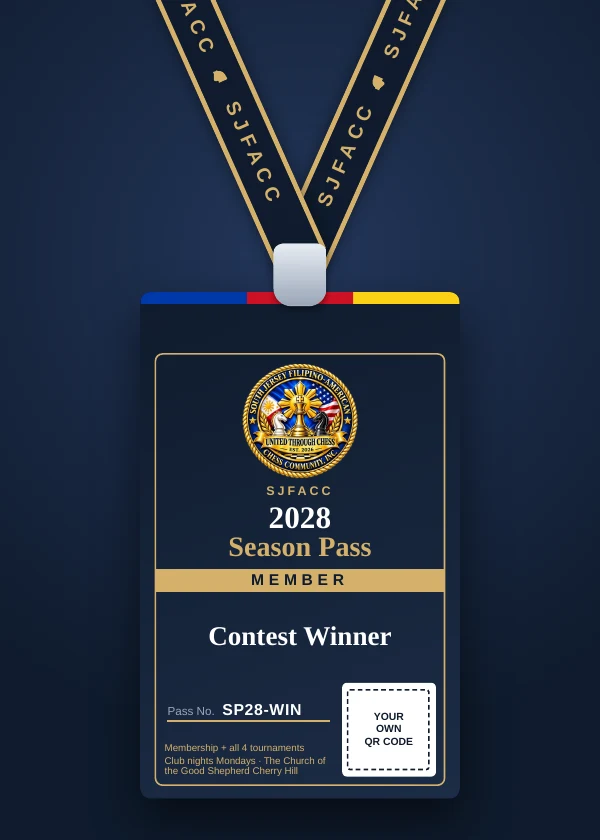
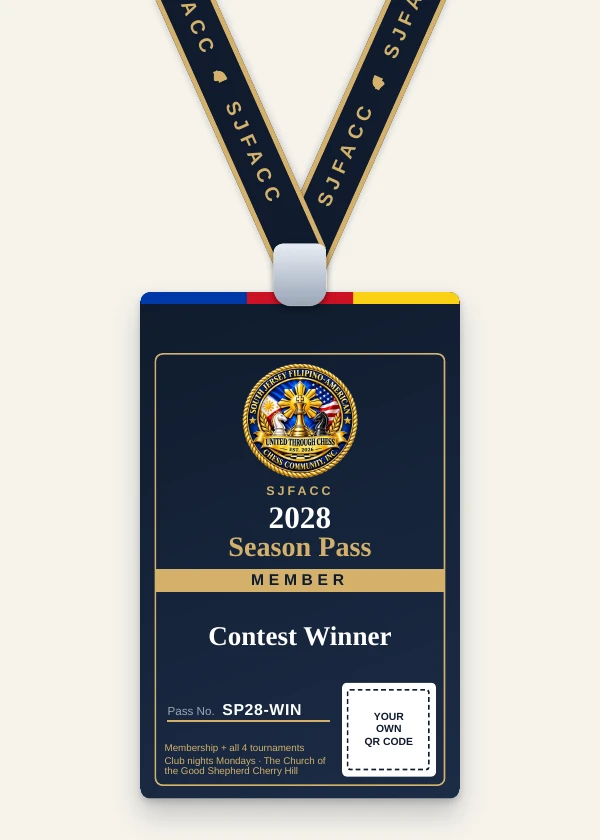
Review copy of SJFACC website @ 43ad1ad for chess.fassj.o2bot.com

diff --git a/index.html b/index.html
@@ -17,7 +17,7 @@
   <meta property="og:image:width" content="1200">
   <meta property="og:image:height" content="630">
   <meta name="twitter:card" content="summary_large_image">
-  <link rel="stylesheet" href="/styles.css?v=2adb89ddaf">
+  <link rel="stylesheet" href="/styles.css?v=86a751a54f">
 </head>
 <body>
   <div style="background:#b8913a;color:#0f1b2d;font:600 13px/1.4 system-ui,-apple-system,Segoe UI,Roboto,Arial,sans-serif;text-align:center;padding:7px 16px">Welcome to the Official SJFACC interim website &mdash; fully operational &middot; <a href="/register.html" style="color:#0f1b2d;text-decoration:underline">Registration is now open! &rarr;</a></div>
@@ -126,7 +126,7 @@
             <button class="btn btn-outline" type="button" data-lightbox="/assets/club-shirt-2027.webp?v=2" data-caption="The 2027 season club T-shirt, designed by Andrew Suganob">See the 2027 shirt</button>
           </div>
         </div>
-        <figure class="contest-pass"><button class="promo-pic promo-pic--pass" type="button" data-lightbox="/assets/season-pass-2028.webp?v=1" data-caption="The prize: a 2028 Season Pass (free one-year membership) and the 2028 season T-shirt" aria-label="Show the 2028 Season Pass larger"><img src="/assets/season-pass-2028.webp?v=1" width="600" height="840" alt="The 2028 SJFACC Season Pass for the contest winner: a navy and gold ID badge on an SJFACC lanyard" loading="lazy"></button><figcaption><b>Win the 2028 Season Pass</b>free one-year membership + a free 2028 season T&#8209;shirt</figcaption></figure>
+        <figure class="contest-pass"><button class="promo-pic promo-pic--pass" type="button" data-lightbox="/assets/season-pass-2028.webp?v=2" data-caption="The prize: a 2028 Season Pass (free one-year membership) and the 2028 season T-shirt" aria-label="Show the 2028 Season Pass larger"><img src="/assets/season-pass-2028.webp?v=2" width="600" height="840" alt="The 2028 SJFACC Season Pass for the contest winner: a navy and gold ID badge on an SJFACC lanyard" loading="lazy"></button><figcaption><b>Win the 2028 Season Pass</b>free one-year membership + a free 2028 season T&#8209;shirt</figcaption></figure>
       </div>
     </section>
 
@@ -214,7 +214,7 @@
       </div>
       <div class="footer-bottom">
         <span>&copy; <span data-year>2026</span> South Jersey Filipino-American Chess Community, Inc.</span>
-        <span><a href="/privacy.html">Privacy &amp; Disclaimer</a> · <a href="/site-info.html">Website info</a> · <span class="build" data-build>Build 231 · Nov 24, 2026</span></span>
+        <span><a href="/privacy.html">Privacy &amp; Disclaimer</a> · <a href="/site-info.html">Website info</a> · <span class="build" data-build>Build 232 · Nov 24, 2026</span></span>
       </div>
     </div>
   </footer>

diff --git a/site-info.html b/site-info.html
@@ -17,7 +17,7 @@
   <meta property="og:image:width" content="1200">
   <meta property="og:image:height" content="630">
   <meta name="twitter:card" content="summary_large_image">
-  <link rel="stylesheet" href="/styles.css?v=2adb89ddaf">
+  <link rel="stylesheet" href="/styles.css?v=86a751a54f">
 </head>
 <body>
   <div style="background:#b8913a;color:#0f1b2d;font:600 13px/1.4 system-ui,-apple-system,Segoe UI,Roboto,Arial,sans-serif;text-align:center;padding:7px 16px">Welcome to the Official SJFACC interim website &mdash; fully operational &middot; <a href="/register.html" style="color:#0f1b2d;text-decoration:underline">Registration is now open! &rarr;</a></div>
@@ -55,7 +55,7 @@
       <div class="container">
         <p class="eyebrow">Website info</p>
         <h1>How this website works</h1>
-        <p class="lead">What this site is built with, how it keeps you safe, and what it does with your information. This is <b data-build-info>Build 231</b>, published <span data-build-date>November 24, 2026</span>.</p>
+        <p class="lead">What this site is built with, how it keeps you safe, and what it does with your information. This is <b data-build-info>Build 232</b>, published <span data-build-date>November 24, 2026</span>.</p>
       </div>
     </section>
     <section class="section">
@@ -135,7 +135,7 @@
       </div>
       <div class="footer-bottom">
         <span>&copy; <span data-year>2026</span> South Jersey Filipino-American Chess Community, Inc.</span>
-        <span><a href="/privacy.html">Privacy &amp; Disclaimer</a> · <a href="/site-info.html">Website info</a> · <span class="build" data-build>Build 231 · Nov 24, 2026</span></span>
+        <span><a href="/privacy.html">Privacy &amp; Disclaimer</a> · <a href="/site-info.html">Website info</a> · <span class="build" data-build>Build 232 · Nov 24, 2026</span></span>
       </div>
     </div>
   </footer>

diff --git a/about.html b/about.html
@@ -17,7 +17,7 @@
   <meta property="og:image:width" content="1200">
   <meta property="og:image:height" content="630">
   <meta name="twitter:card" content="summary_large_image">
-  <link rel="stylesheet" href="/styles.css?v=2adb89ddaf">
+  <link rel="stylesheet" href="/styles.css?v=86a751a54f">
 </head>
 <body>
   <div style="background:#b8913a;color:#0f1b2d;font:600 13px/1.4 system-ui,-apple-system,Segoe UI,Roboto,Arial,sans-serif;text-align:center;padding:7px 16px">Welcome to the Official SJFACC interim website &mdash; fully operational &middot; <a href="/register.html" style="color:#0f1b2d;text-decoration:underline">Registration is now open! &rarr;</a></div>
@@ -199,7 +199,7 @@
       </div>
       <div class="footer-bottom">
         <span>&copy; <span data-year>2026</span> South Jersey Filipino-American Chess Community, Inc.</span>
-        <span><a href="/privacy.html">Privacy &amp; Disclaimer</a> · <a href="/site-info.html">Website info</a> · <span class="build" data-build>Build 231 · Nov 24, 2026</span></span>
+        <span><a href="/privacy.html">Privacy &amp; Disclaimer</a> · <a href="/site-info.html">Website info</a> · <span class="build" data-build>Build 232 · Nov 24, 2026</span></span>
       </div>
     </div>
   </footer>

diff --git a/contact.html b/contact.html
@@ -17,7 +17,7 @@
   <meta property="og:image:width" content="1200">
   <meta property="og:image:height" content="630">
   <meta name="twitter:card" content="summary_large_image">
-  <link rel="stylesheet" href="/styles.css?v=2adb89ddaf">
+  <link rel="stylesheet" href="/styles.css?v=86a751a54f">
 </head>
 <body>
   <div style="background:#b8913a;color:#0f1b2d;font:600 13px/1.4 system-ui,-apple-system,Segoe UI,Roboto,Arial,sans-serif;text-align:center;padding:7px 16px">Welcome to the Official SJFACC interim website &mdash; fully operational &middot; <a href="/register.html" style="color:#0f1b2d;text-decoration:underline">Registration is now open! &rarr;</a></div>
@@ -111,7 +111,7 @@
       </div>
       <div class="footer-bottom">
         <span>&copy; <span data-year>2026</span> South Jersey Filipino-American Chess Community, Inc.</span>
-        <span><a href="/privacy.html">Privacy &amp; Disclaimer</a> · <a href="/site-info.html">Website info</a> · <span class="build" data-build>Build 231 · Nov 24, 2026</span></span>
+        <span><a href="/privacy.html">Privacy &amp; Disclaimer</a> · <a href="/site-info.html">Website info</a> · <span class="build" data-build>Build 232 · Nov 24, 2026</span></span>
       </div>
     </div>
   </footer>

diff --git a/contest.html b/contest.html
@@ -17,7 +17,7 @@
   <meta property="og:image:width" content="1200">
   <meta property="og:image:height" content="630">
   <meta name="twitter:card" content="summary_large_image">
-  <link rel="stylesheet" href="/styles.css?v=2adb89ddaf">
+  <link rel="stylesheet" href="/styles.css?v=86a751a54f">
 </head>
 <body>
   <div style="background:#b8913a;color:#0f1b2d;font:600 13px/1.4 system-ui,-apple-system,Segoe UI,Roboto,Arial,sans-serif;text-align:center;padding:7px 16px">Welcome to the Official SJFACC interim website &mdash; fully operational &middot; <a href="/register.html" style="color:#0f1b2d;text-decoration:underline">Registration is now open! &rarr;</a></div>
@@ -157,7 +157,7 @@
       </div>
       <div class="footer-bottom">
         <span>&copy; <span data-year>2026</span> South Jersey Filipino-American Chess Community, Inc.</span>
-        <span><a href="/privacy.html">Privacy &amp; Disclaimer</a> · <a href="/site-info.html">Website info</a> · <span class="build" data-build>Build 231 · Nov 24, 2026</span></span>
+        <span><a href="/privacy.html">Privacy &amp; Disclaimer</a> · <a href="/site-info.html">Website info</a> · <span class="build" data-build>Build 232 · Nov 24, 2026</span></span>
       </div>
     </div>
   </footer>

diff --git a/edit.html b/edit.html
@@ -18,7 +18,7 @@
   <meta property="og:image:width" content="1200">
   <meta property="og:image:height" content="630">
   <meta name="twitter:card" content="summary_large_image">
-  <link rel="stylesheet" href="/styles.css?v=2adb89ddaf">
+  <link rel="stylesheet" href="/styles.css?v=86a751a54f">
 </head>
 <body>
   <div style="background:#b8913a;color:#0f1b2d;font:600 13px/1.4 system-ui,-apple-system,Segoe UI,Roboto,Arial,sans-serif;text-align:center;padding:7px 16px">Welcome to the Official SJFACC interim website &mdash; fully operational &middot; <a href="/register.html" style="color:#0f1b2d;text-decoration:underline">Registration is now open! &rarr;</a></div>
@@ -101,7 +101,7 @@
       </div>
       <div class="footer-bottom">
         <span>&copy; <span data-year>2026</span> South Jersey Filipino-American Chess Community, Inc.</span>
-        <span><a href="/privacy.html">Privacy &amp; Disclaimer</a> · <a href="/site-info.html">Website info</a> · <span class="build" data-build>Build 231 · Nov 24, 2026</span></span>
+        <span><a href="/privacy.html">Privacy &amp; Disclaimer</a> · <a href="/site-info.html">Website info</a> · <span class="build" data-build>Build 232 · Nov 24, 2026</span></span>
       </div>
     </div>
   </footer>

diff --git a/officer-setup.html b/officer-setup.html
@@ -18,7 +18,7 @@
   <meta property="og:image:width" content="1200">
   <meta property="og:image:height" content="630">
   <meta name="twitter:card" content="summary_large_image">
-  <link rel="stylesheet" href="/styles.css?v=2adb89ddaf">
+  <link rel="stylesheet" href="/styles.css?v=86a751a54f">
 </head>
 <body>
   <div style="background:#b8913a;color:#0f1b2d;font:600 13px/1.4 system-ui,-apple-system,Segoe UI,Roboto,Arial,sans-serif;text-align:center;padding:7px 16px">Welcome to the Official SJFACC interim website &mdash; fully operational &middot; <a href="/register.html" style="color:#0f1b2d;text-decoration:underline">Registration is now open! &rarr;</a></div>
@@ -109,7 +109,7 @@
       </div>
       <div class="footer-bottom">
         <span>&copy; <span data-year>2026</span> South Jersey Filipino-American Chess Community, Inc.</span>
-        <span><a href="/privacy.html">Privacy &amp; Disclaimer</a> · <a href="/site-info.html">Website info</a> · <span class="build" data-build>Build 231 · Nov 24, 2026</span></span>
+        <span><a href="/privacy.html">Privacy &amp; Disclaimer</a> · <a href="/site-info.html">Website info</a> · <span class="build" data-build>Build 232 · Nov 24, 2026</span></span>
       </div>
     </div>
   </footer>

diff --git a/officers.html b/officers.html
@@ -18,7 +18,7 @@
   <meta property="og:image:width" content="1200">
   <meta property="og:image:height" content="630">
   <meta name="twitter:card" content="summary_large_image">
-  <link rel="stylesheet" href="/styles.css?v=2adb89ddaf">
+  <link rel="stylesheet" href="/styles.css?v=86a751a54f">
 </head>
 <body>
   <div style="background:#b8913a;color:#0f1b2d;font:600 13px/1.4 system-ui,-apple-system,Segoe UI,Roboto,Arial,sans-serif;text-align:center;padding:7px 16px">Welcome to the Official SJFACC interim website &mdash; fully operational &middot; <a href="/register.html" style="color:#0f1b2d;text-decoration:underline">Registration is now open! &rarr;</a></div>
@@ -211,7 +211,7 @@
       </div>
       <div class="footer-bottom">
         <span>&copy; <span data-year>2026</span> South Jersey Filipino-American Chess Community, Inc.</span>
-        <span><a href="/privacy.html">Privacy &amp; Disclaimer</a> · <a href="/site-info.html">Website info</a> · <span class="build" data-build>Build 231 · Nov 24, 2026</span></span>
+        <span><a href="/privacy.html">Privacy &amp; Disclaimer</a> · <a href="/site-info.html">Website info</a> · <span class="build" data-build>Build 232 · Nov 24, 2026</span></span>
       </div>
     </div>
   </footer>

diff --git a/partners.html b/partners.html
@@ -17,7 +17,7 @@
   <meta property="og:image:width" content="1200">
   <meta property="og:image:height" content="630">
   <meta name="twitter:card" content="summary_large_image">
-  <link rel="stylesheet" href="/styles.css?v=2adb89ddaf">
+  <link rel="stylesheet" href="/styles.css?v=86a751a54f">
 </head>
 <body>
   <div style="background:#b8913a;color:#0f1b2d;font:600 13px/1.4 system-ui,-apple-system,Segoe UI,Roboto,Arial,sans-serif;text-align:center;padding:7px 16px">Welcome to the Official SJFACC interim website &mdash; fully operational &middot; <a href="/register.html" style="color:#0f1b2d;text-decoration:underline">Registration is now open! &rarr;</a></div>
@@ -121,7 +121,7 @@
       </div>
       <div class="footer-bottom">
         <span>&copy; <span data-year>2026</span> South Jersey Filipino-American Chess Community, Inc.</span>
-        <span><a href="/privacy.html">Privacy &amp; Disclaimer</a> · <a href="/site-info.html">Website info</a> · <span class="build" data-build>Build 231 · Nov 24, 2026</span></span>
+        <span><a href="/privacy.html">Privacy &amp; Disclaimer</a> · <a href="/site-info.html">Website info</a> · <span class="build" data-build>Build 232 · Nov 24, 2026</span></span>
       </div>
     </div>
   </footer>

diff --git a/pay.html b/pay.html
@@ -17,7 +17,7 @@
   <meta property="og:image:width" content="1200">
   <meta property="og:image:height" content="630">
   <meta name="twitter:card" content="summary_large_image">
-  <link rel="stylesheet" href="/styles.css?v=2adb89ddaf">
+  <link rel="stylesheet" href="/styles.css?v=86a751a54f">
 </head>
 <body>
   <div style="background:#b8913a;color:#0f1b2d;font:600 13px/1.4 system-ui,-apple-system,Segoe UI,Roboto,Arial,sans-serif;text-align:center;padding:7px 16px">Welcome to the Official SJFACC interim website &mdash; fully operational &middot; <a href="/register.html" style="color:#0f1b2d;text-decoration:underline">Registration is now open! &rarr;</a></div>
@@ -134,7 +134,7 @@
       </div>
       <div class="footer-bottom">
         <span>&copy; <span data-year>2026</span> South Jersey Filipino-American Chess Community, Inc.</span>
-        <span><a href="/privacy.html">Privacy &amp; Disclaimer</a> · <a href="/site-info.html">Website info</a> · <span class="build" data-build>Build 231 · Nov 24, 2026</span></span>
+        <span><a href="/privacy.html">Privacy &amp; Disclaimer</a> · <a href="/site-info.html">Website info</a> · <span class="build" data-build>Build 232 · Nov 24, 2026</span></span>
       </div>
     </div>
   </footer>

diff --git a/privacy.html b/privacy.html
@@ -18,7 +18,7 @@
   <meta property="og:image:width" content="1200">
   <meta property="og:image:height" content="630">
   <meta name="twitter:card" content="summary_large_image">
-  <link rel="stylesheet" href="/styles.css?v=2adb89ddaf">
+  <link rel="stylesheet" href="/styles.css?v=86a751a54f">
 </head>
 <body>
   <div style="background:#b8913a;color:#0f1b2d;font:600 13px/1.4 system-ui,-apple-system,Segoe UI,Roboto,Arial,sans-serif;text-align:center;padding:7px 16px">Welcome to the Official SJFACC interim website &mdash; fully operational &middot; <a href="/register.html" style="color:#0f1b2d;text-decoration:underline">Registration is now open! &rarr;</a></div>
@@ -177,7 +177,7 @@
       </div>
       <div class="footer-bottom">
         <span>&copy; <span data-year>2026</span> South Jersey Filipino-American Chess Community, Inc.</span>
-        <span><a href="/privacy.html">Privacy &amp; Disclaimer</a> · <a href="/site-info.html">Website info</a> · <span class="build" data-build>Build 231 · Nov 24, 2026</span></span>
+        <span><a href="/privacy.html">Privacy &amp; Disclaimer</a> · <a href="/site-info.html">Website info</a> · <span class="build" data-build>Build 232 · Nov 24, 2026</span></span>
       </div>
     </div>
   </footer>

diff --git a/register.html b/register.html
@@ -17,7 +17,7 @@
   <meta property="og:image:width" content="1200">
   <meta property="og:image:height" content="630">
   <meta name="twitter:card" content="summary_large_image">
-  <link rel="stylesheet" href="/styles.css?v=2adb89ddaf">
+  <link rel="stylesheet" href="/styles.css?v=86a751a54f">
 </head>
 <body>
   <div style="background:#b8913a;color:#0f1b2d;font:600 13px/1.4 system-ui,-apple-system,Segoe UI,Roboto,Arial,sans-serif;text-align:center;padding:7px 16px">Welcome to the Official SJFACC interim website &mdash; fully operational &middot; <a href="/register.html" style="color:#0f1b2d;text-decoration:underline">Registration is now open! &rarr;</a></div>
@@ -170,7 +170,7 @@
       </div>
       <div class="footer-bottom">
         <span>&copy; <span data-year>2026</span> South Jersey Filipino-American Chess Community, Inc.</span>
-        <span><a href="/privacy.html">Privacy &amp; Disclaimer</a> · <a href="/site-info.html">Website info</a> · <span class="build" data-build>Build 231 · Nov 24, 2026</span></span>
+        <span><a href="/privacy.html">Privacy &amp; Disclaimer</a> · <a href="/site-info.html">Website info</a> · <span class="build" data-build>Build 232 · Nov 24, 2026</span></span>
       </div>
     </div>
   </footer>
